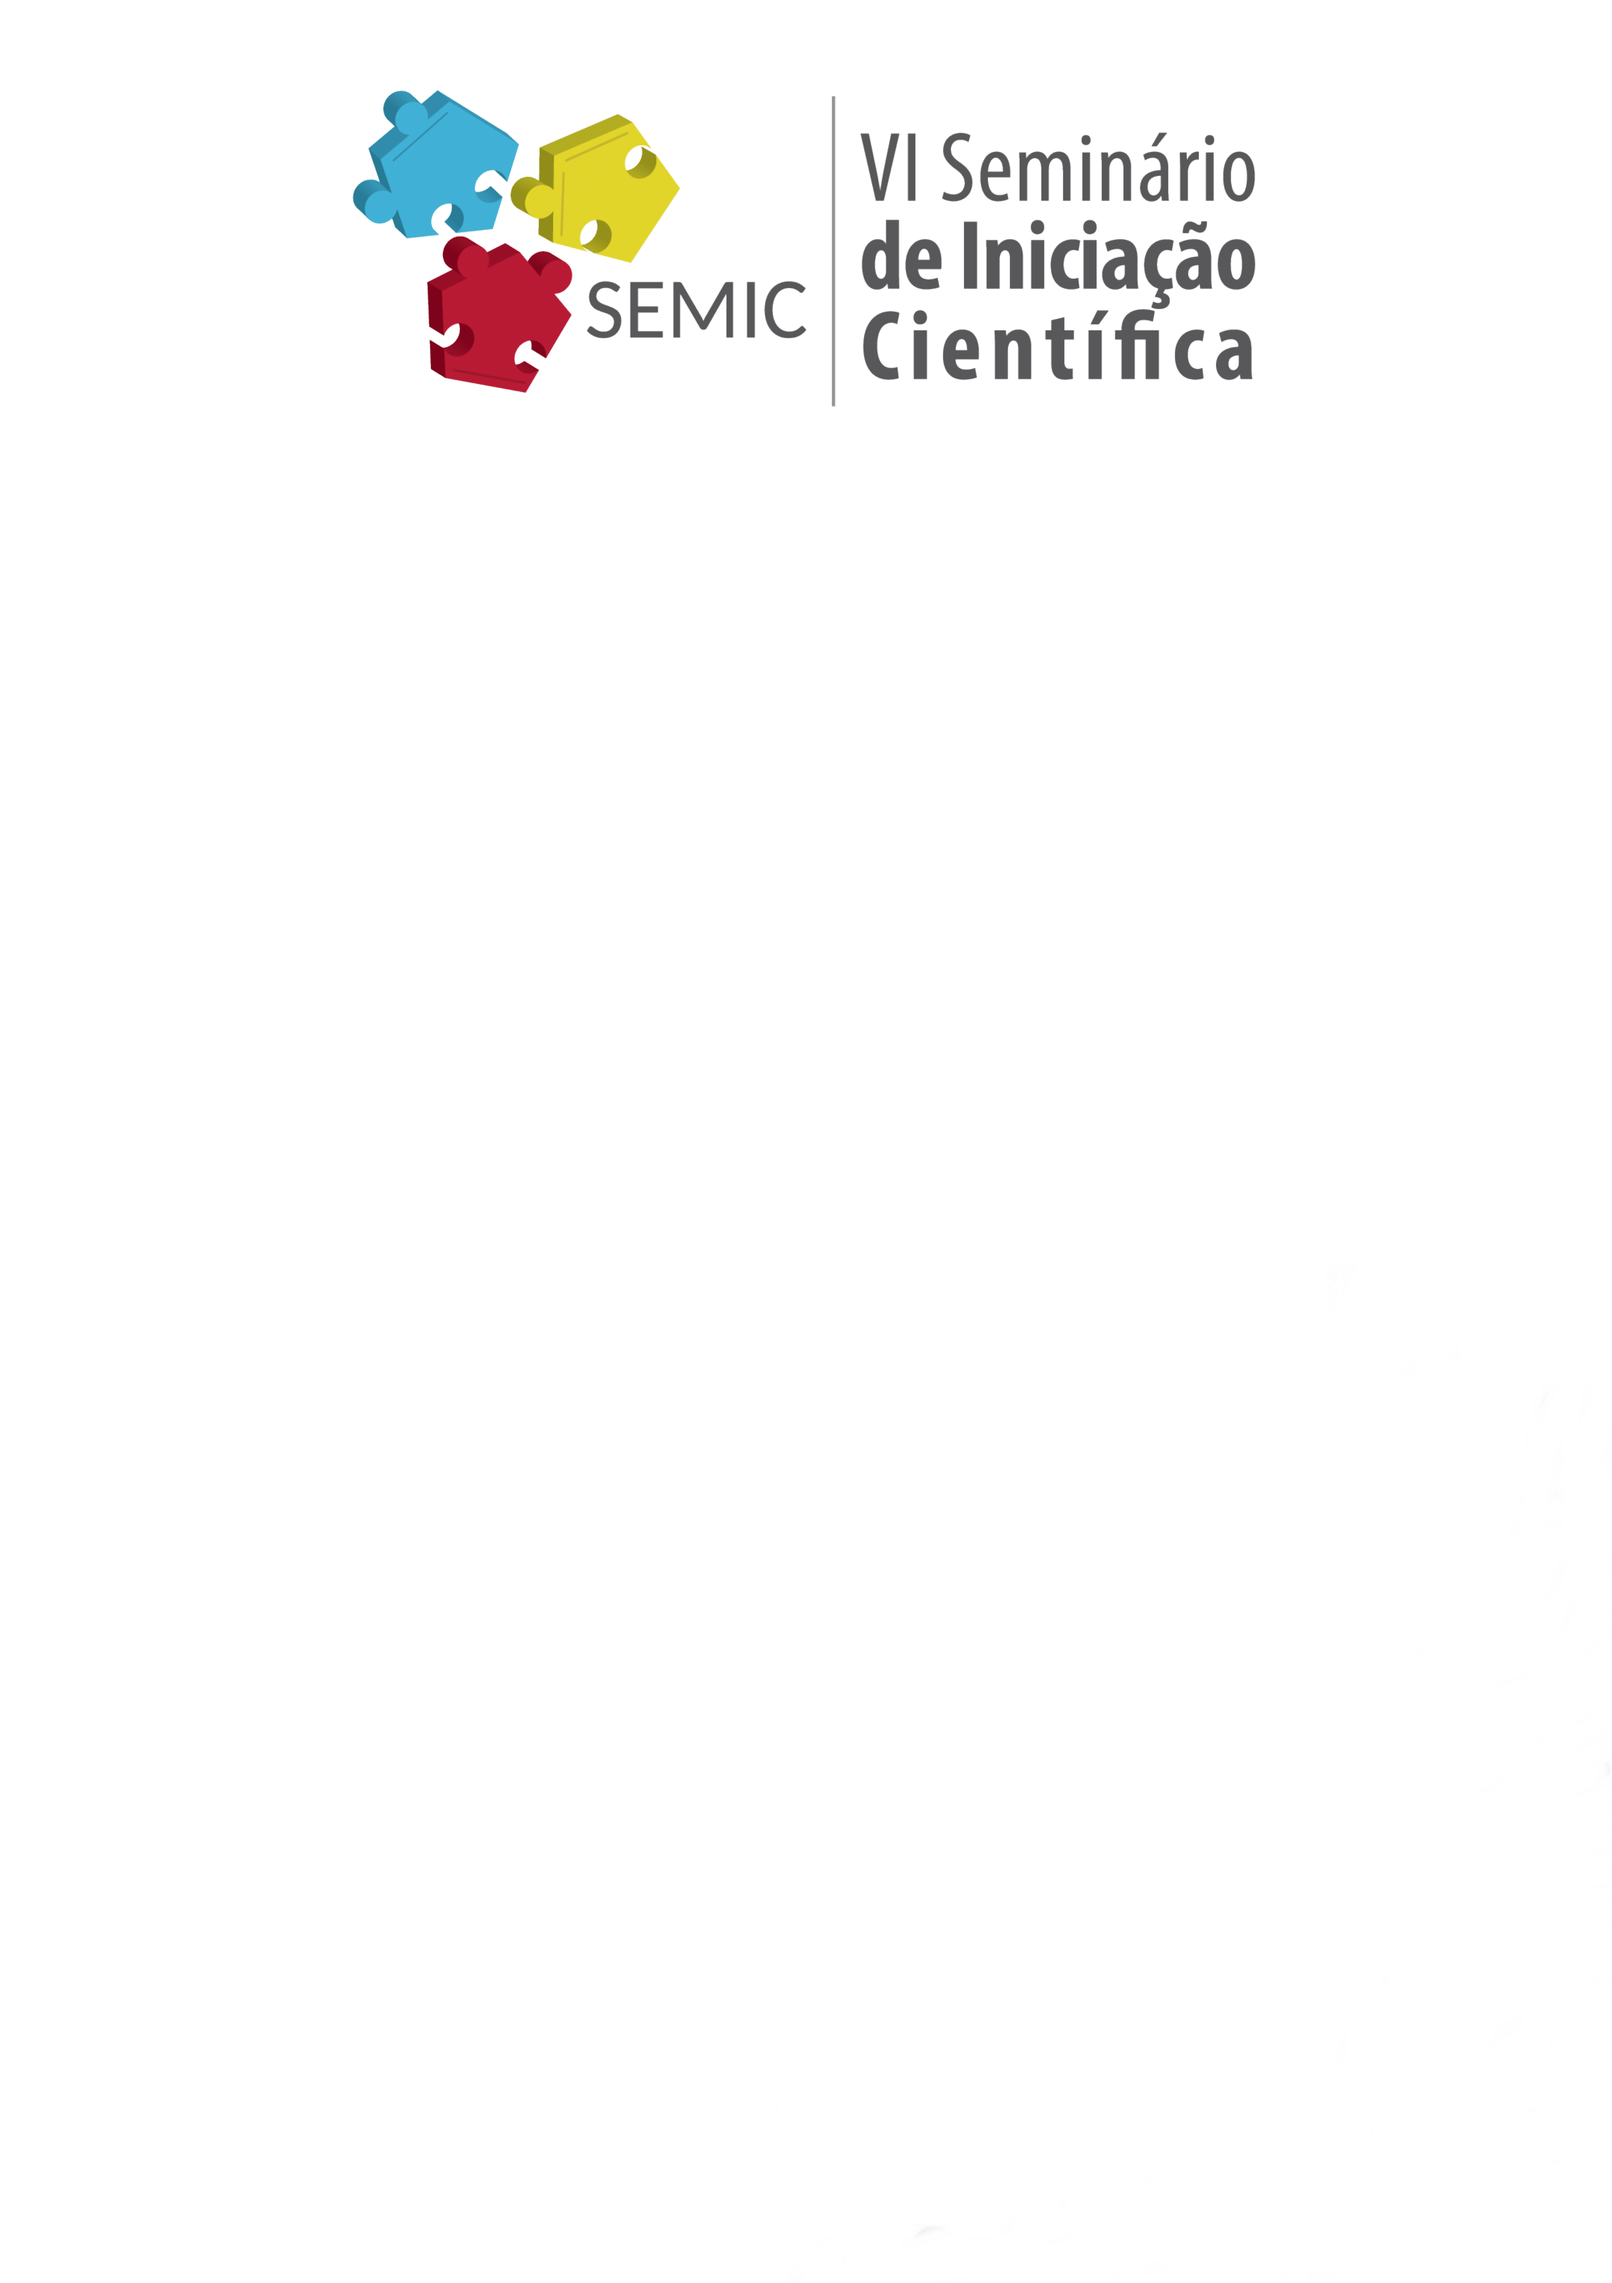
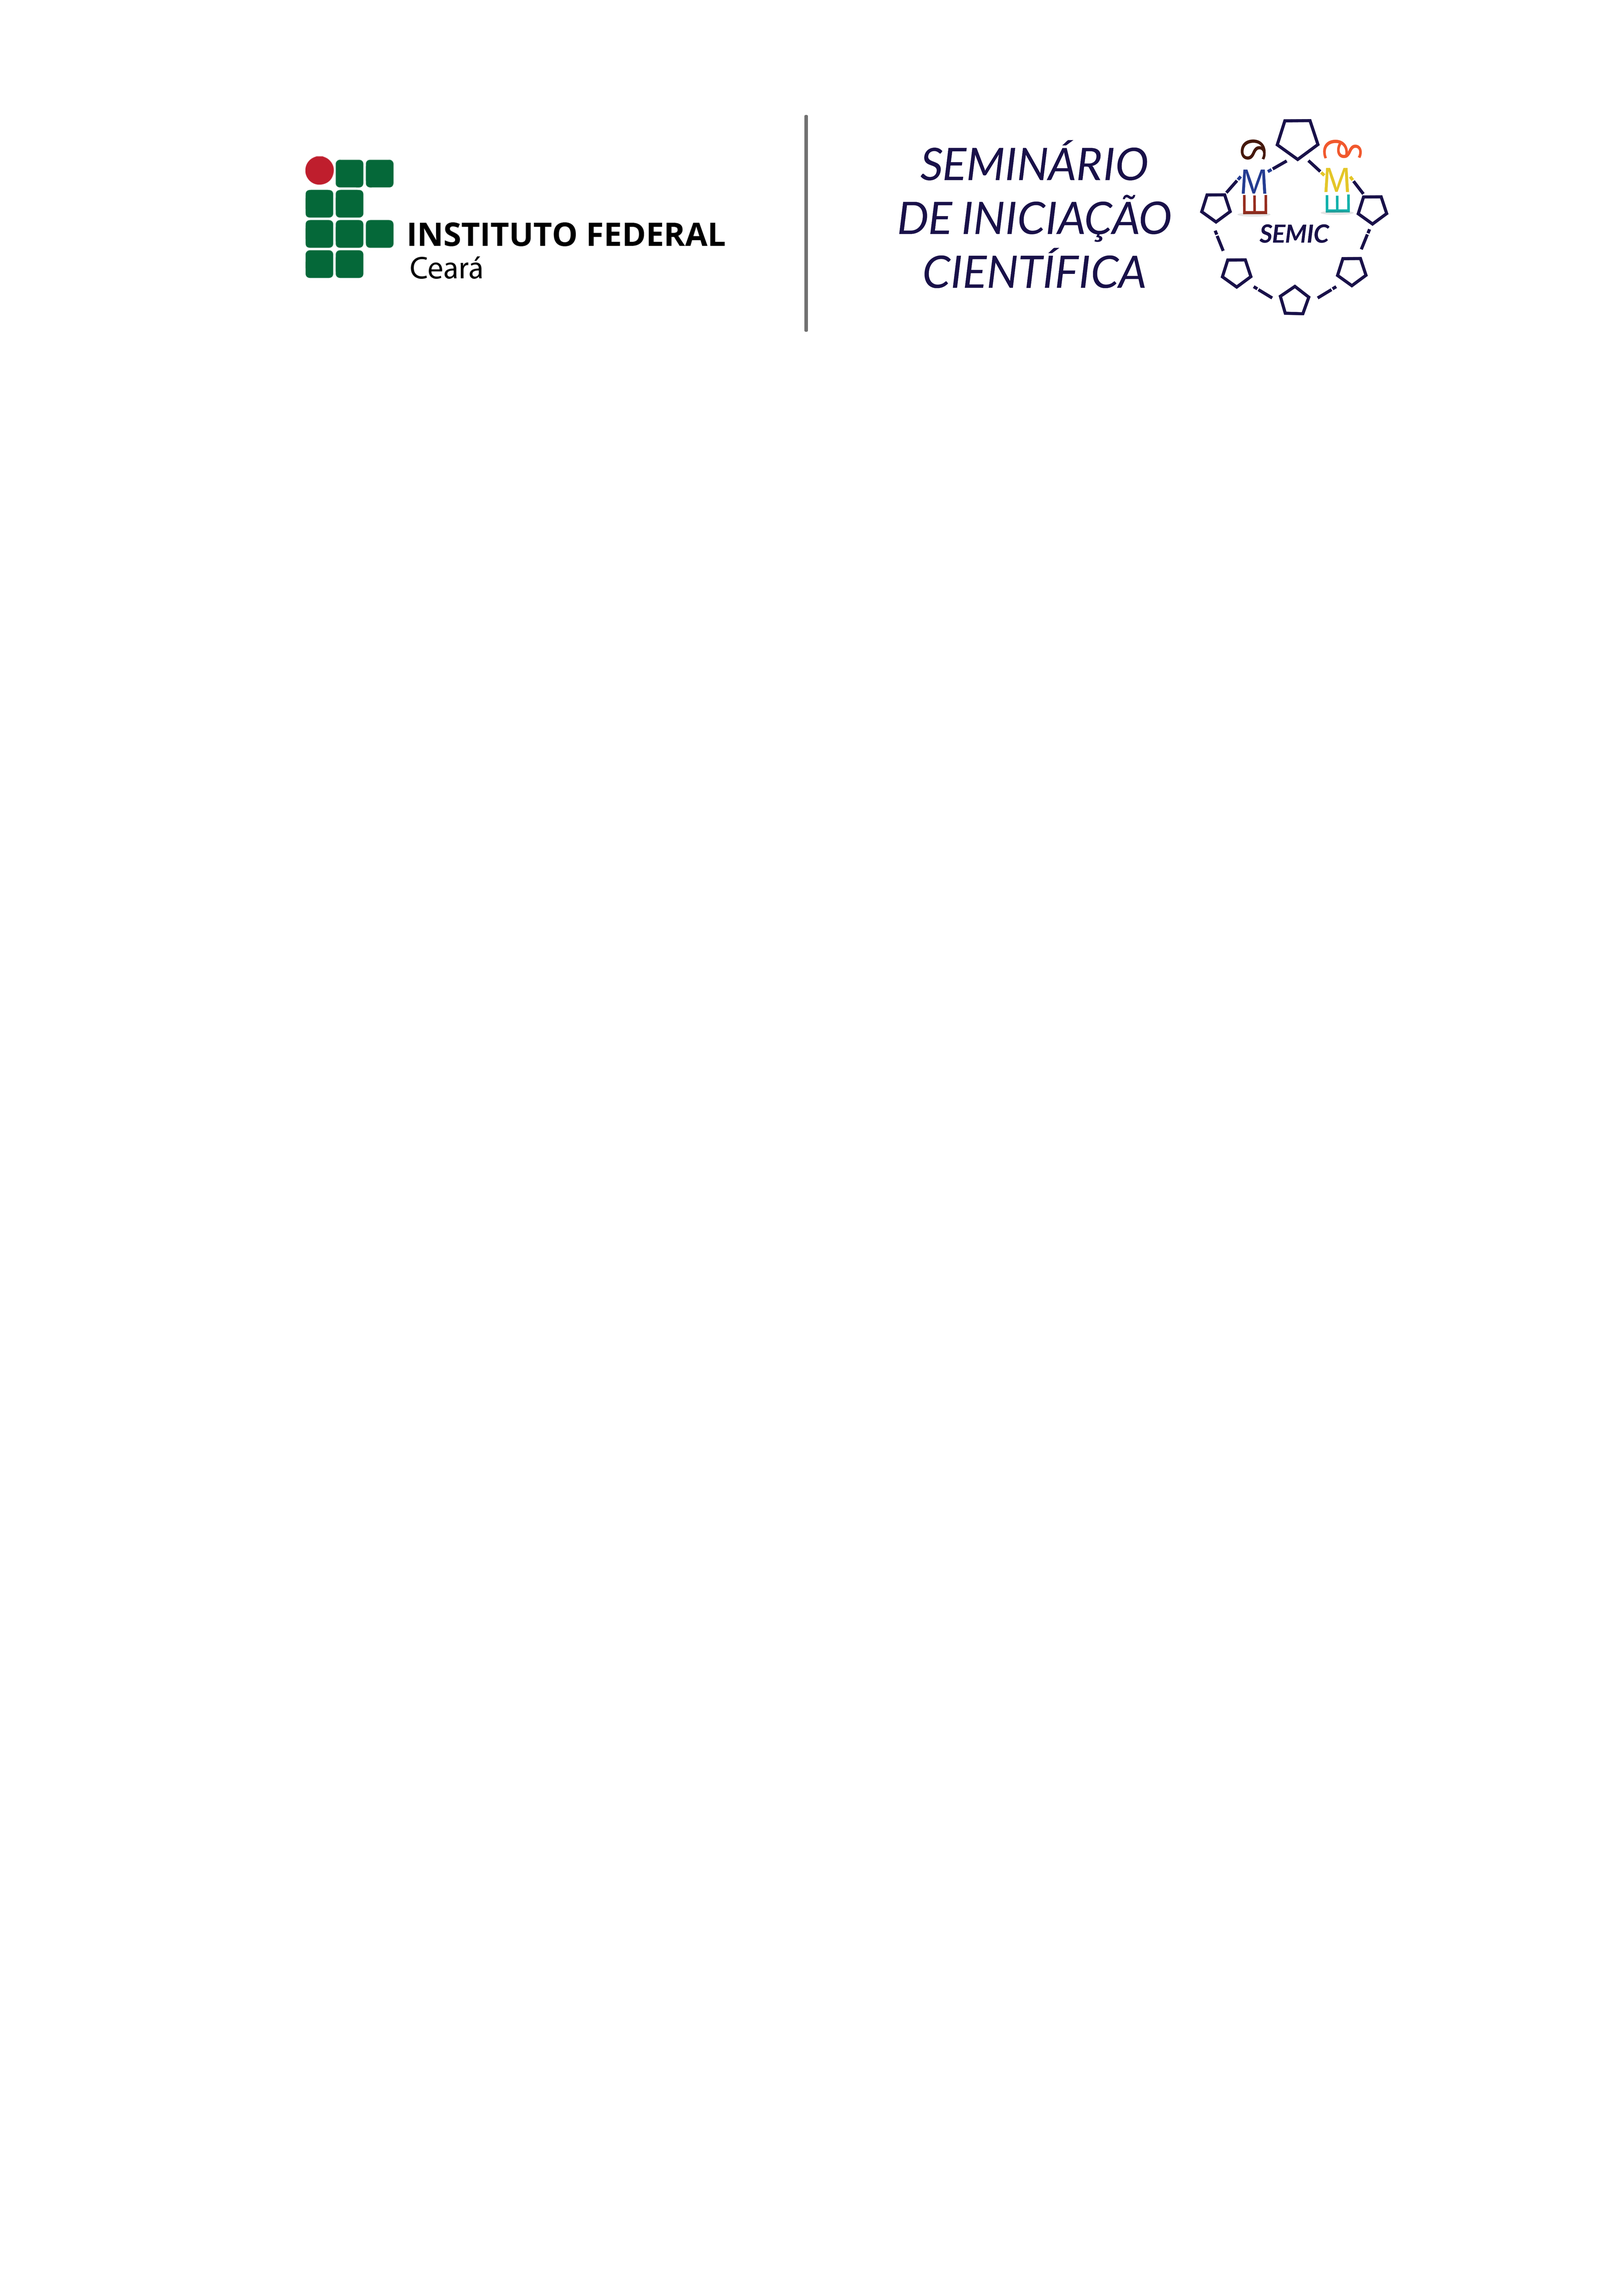
Muda background

Changed region(s): [[0.1864, 0.0312, 0.839, 0.1873]]

diff --git a/main.tex b/main.tex
@@ -46,11 +46,12 @@
 \hyphenation{exa-tamente}
 \hyphenation{esco-lhendo}
 
+
 \begin{document}
  \AddToShipoutPicture*{\BackgroundIm}
 
 \begin{minipage}[t]{0.97\linewidth}
-\vspace{14cm}
+\vspace{10cm}
 \begin{center}
 \vspace{1cm} 
 \Huge \color{black} \textbf{ENSINO  DE  ROBÓTICA  NAS  ESCOLAS  PÚBLICAS  UTILIZANDO  MATERIAIS  RECICLADOS  E  PRINCÍPIOS  DE  APRENDIZAGEM  BASEADA  EM  PROJETOS} \color{Black}\\ [0.5cm] 
